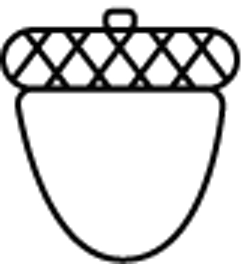
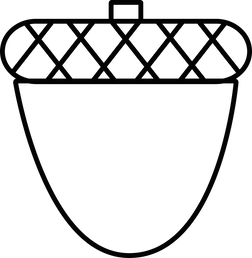
updated image and font for landing page

Changed region(s): [[0.0, 0.0, 1.0, 1.0]]

diff --git a/client/css/compass/screen.css b/client/css/compass/screen.css
@@ -1,4 +1,4 @@
-@import url(http://fonts.googleapis.com/css?family=Oswald:400,700,300);html,body,div,span,applet,object,iframe,h1,h2,h3,h4,h5,h6,p,blockquote,pre,a,abbr,acronym,address,big,cite,code,del,dfn,em,img,ins,kbd,q,s,samp,small,strike,strong,sub,sup,tt,var,b,u,i,center,dl,dt,dd,ol,ul,li,fieldset,form,label,legend,table,caption,tbody,tfoot,thead,tr,th,td,article,aside,canvas,details,embed,figure,figcaption,footer,header,hgroup,menu,nav,output,ruby,section,summary,time,mark,audio,video{margin:0;padding:0;border:0;font:inherit;font-size:100%;vertical-align:baseline}html{line-height:1}ol,ul{list-style:none}table{border-collapse:collapse;border-spacing:0}caption,th,td{text-align:left;font-weight:normal;vertical-align:middle}q,blockquote{quotes:none}q:before,q:after,blockquote:before,blockquote:after{content:"";content:none}a img{border:none}article,aside,details,figcaption,figure,footer,header,hgroup,main,menu,nav,section,summary{display:block}/*!
+@import url(http://fonts.googleapis.com/css?family=Montserrat+Alternates:700|Roboto:300,500|Oswald:400,700,300);html,body,div,span,applet,object,iframe,h1,h2,h3,h4,h5,h6,p,blockquote,pre,a,abbr,acronym,address,big,cite,code,del,dfn,em,img,ins,kbd,q,s,samp,small,strike,strong,sub,sup,tt,var,b,u,i,center,dl,dt,dd,ol,ul,li,fieldset,form,label,legend,table,caption,tbody,tfoot,thead,tr,th,td,article,aside,canvas,details,embed,figure,figcaption,footer,header,hgroup,menu,nav,output,ruby,section,summary,time,mark,audio,video{margin:0;padding:0;border:0;font:inherit;font-size:100%;vertical-align:baseline}html{line-height:1}ol,ul{list-style:none}table{border-collapse:collapse;border-spacing:0}caption,th,td{text-align:left;font-weight:normal;vertical-align:middle}q,blockquote{quotes:none}q:before,q:after,blockquote:before,blockquote:after{content:"";content:none}a img{border:none}article,aside,details,figcaption,figure,footer,header,hgroup,main,menu,nav,section,summary{display:block}/*!
  *  Font Awesome 4.0.3 by @davegandy - http://fontawesome.io - @fontawesome
  *  License - http://fontawesome.io/license (Font: SIL OFL 1.1, CSS: MIT License)
  */@font-face{font-family:'FontAwesome';src:url("/fonts/fontawesome-webfont.eot?v=4.0.3");src:url("/fonts/fontawesome-webfont.eot?#iefix&v=4.0.3") format("embedded-opentype"),url("/fonts/fontawesome-webfont.woff?v=4.0.3") format("woff"),url("/fonts/fontawesome-webfont.ttf?v=4.0.3") format("truetype"),url("/fonts/fontawesome-webfont.svg?v=4.0.3#fontawesomeregular") format("svg");font-weight:normal;font-style:normal}.fa{display:inline-block;font-family:FontAwesome;font-style:normal;font-weight:normal;line-height:1;-webkit-font-smoothing:antialiased;-moz-osx-font-smoothing:grayscale}.fa-lg{font-size:1.33333em;line-height:0.75em;vertical-align:-15%}.fa-2x{font-size:2em}.fa-3x{font-size:3em}.fa-4x{font-size:4em}.fa-5x{font-size:5em}.fa-fw{width:1.28571em;text-align:center}.fa-ul{padding-left:0;margin-left:2.14286em;list-style-type:none}.fa-ul>li{position:relative}.fa-li{position:absolute;left:-2.14286em;width:2.14286em;top:0.14286em;text-align:center}.fa-li.fa-lg{left:-1.85714em}.fa-border{padding:.2em .25em .15em;border:solid 0.08em #eee;border-radius:.1em}.pull-right{float:right}.pull-left{float:left}.fa.pull-left{margin-right:.3em}.fa.pull-right{margin-left:.3em}.fa-spin{-webkit-animation:spin 2s infinite linear;-moz-animation:spin 2s infinite linear;-o-animation:spin 2s infinite linear;animation:spin 2s infinite linear}@-moz-keyframes spin{0%{-moz-transform:rotate(0deg)}100%{-moz-transform:rotate(359deg)}}@-webkit-keyframes spin{0%{-webkit-transform:rotate(0deg)}100%{-webkit-transform:rotate(359deg)}}@-o-keyframes spin{0%{-o-transform:rotate(0deg)}100%{-o-transform:rotate(359deg)}}@-ms-keyframes spin{0%{-ms-transform:rotate(0deg)}100%{-ms-transform:rotate(359deg)}}@keyframes spin{0%{transform:rotate(0deg)}100%{transform:rotate(359deg)}}.fa-rotate-90{filter:progid:DXImageTransform.Microsoft.BasicImage(rotation=$rotation);-webkit-transform:rotate(90deg);-moz-transform:rotate(90deg);-ms-transform:rotate(90deg);-o-transform:rotate(90deg);transform:rotate(90deg)}.fa-rotate-180{filter:progid:DXImageTransform.Microsoft.BasicImage(rotation=$rotation);-webkit-transform:rotate(180deg);-moz-transform:rotate(180deg);-ms-transform:rotate(180deg);-o-transform:rotate(180deg);transform:rotate(180deg)}.fa-rotate-270{filter:progid:DXImageTransform.Microsoft.BasicImage(rotation=$rotation);-webkit-transform:rotate(270deg);-moz-transform:rotate(270deg);-ms-transform:rotate(270deg);-o-transform:rotate(270deg);transform:rotate(270deg)}.fa-flip-horizontal{filter:progid:DXImageTransform.Microsoft.BasicImage(rotation=$rotation);-webkit-transform:scale(-1, 1);-moz-transform:scale(-1, 1);-ms-transform:scale(-1, 1);-o-transform:scale(-1, 1);transform:scale(-1, 1)}.fa-flip-vertical{filter:progid:DXImageTransform.Microsoft.BasicImage(rotation=$rotation);-webkit-transform:scale(1, -1);-moz-transform:scale(1, -1);-ms-transform:scale(1, -1);-o-transform:scale(1, -1);transform:scale(1, -1)}.fa-stack{position:relative;display:inline-block;width:2em;height:2em;line-height:2em;vertical-align:middle}.fa-stack-1x,.fa-stack-2x{position:absolute;left:0;width:100%;text-align:center}.fa-stack-1x{line-height:inherit}.fa-stack-2x{font-size:2em}.fa-inverse{color:#fff}.fa-glass:before{content:"\f000"}.fa-music:before{content:"\f001"}.fa-search:before{content:"\f002"}.fa-envelope-o:before{content:"\f003"}.fa-heart:before{content:"\f004"}.fa-star:before{content:"\f005"}.fa-star-o:before{content:"\f006"}.fa-user:before{content:"\f007"}.fa-film:before{content:"\f008"}.fa-th-large:before{content:"\f009"}.fa-th:before{content:"\f00a"}.fa-th-list:before{content:"\f00b"}.fa-check:before{content:"\f00c"}.fa-times:before{content:"\f00d"}.fa-search-plus:before{content:"\f00e"}.fa-search-minus:before{content:"\f010"}.fa-power-off:before{content:"\f011"}.fa-signal:before{content:"\f012"}.fa-gear:before,.fa-cog:before{content:"\f013"}.fa-trash-o:before{content:"\f014"}.fa-home:before{content:"\f015"}.fa-file-o:before{content:"\f016"}.fa-clock-o:before{content:"\f017"}.fa-road:before{content:"\f018"}.fa-download:before{content:"\f019"}.fa-arrow-circle-o-down:before{content:"\f01a"}.fa-arrow-circle-o-up:before{content:"\f01b"}.fa-inbox:before{content:"\f01c"}.fa-play-circle-o:before{content:"\f01d"}.fa-rotate-right:before,.fa-repeat:before{content:"\f01e"}.fa-refresh:before{content:"\f021"}.fa-list-alt:before{content:"\f022"}.fa-lock:before{content:"\f023"}.fa-flag:before{content:"\f024"}.fa-headphones:before{content:"\f025"}.fa-volume-off:before{content:"\f026"}.fa-volume-down:before{content:"\f027"}.fa-volume-up:before{content:"\f028"}.fa-qrcode:before{content:"\f029"}.fa-barcode:before{content:"\f02a"}.fa-tag:before{content:"\f02b"}.fa-tags:before{content:"\f02c"}.fa-book:before{content:"\f02d"}.fa-bookmark:before{content:"\f02e"}.fa-print:before{content:"\f02f"}.fa-camera:before{content:"\f030"}.fa-font:before{content:"\f031"}.fa-bold:before{content:"\f032"}.fa-italic:before{content:"\f033"}.fa-text-height:before{content:"\f034"}.fa-text-width:before{content:"\f035"}.fa-align-left:before{content:"\f036"}.fa-align-center:before{content:"\f037"}.fa-align-right:before{content:"\f038"}.fa-align-justify:before{content:"\f039"}.fa-list:before{content:"\f03a"}.fa-dedent:before,.fa-outdent:before{content:"\f03b"}.fa-indent:before{content:"\f03c"}.fa-video-camera:before{content:"\f03d"}.fa-picture-o:before{content:"\f03e"}.fa-pencil:before{content:"\f040"}.fa-map-marker:before{content:"\f041"}.fa-adjust:before{content:"\f042"}.fa-tint:before{content:"\f043"}.fa-edit:before,.fa-pencil-square-o:before{content:"\f044"}.fa-share-square-o:before{content:"\f045"}.fa-check-square-o:before{content:"\f046"}.fa-arrows:before{content:"\f047"}.fa-step-backward:before{content:"\f048"}.fa-fast-backward:before{content:"\f049"}.fa-backward:before{content:"\f04a"}.fa-play:before{content:"\f04b"}.fa-pause:before{content:"\f04c"}.fa-stop:before{content:"\f04d"}.fa-forward:before{content:"\f04e"}.fa-fast-forward:before{content:"\f050"}.fa-step-forward:before{content:"\f051"}.fa-eject:before{content:"\f052"}.fa-chevron-left:before{content:"\f053"}.fa-chevron-right:before{content:"\f054"}.fa-plus-circle:before{content:"\f055"}.fa-minus-circle:before{content:"\f056"}.fa-times-circle:before{content:"\f057"}.fa-check-circle:before{content:"\f058"}.fa-question-circle:before{content:"\f059"}.fa-info-circle:before{content:"\f05a"}.fa-crosshairs:before{content:"\f05b"}.fa-times-circle-o:before{content:"\f05c"}.fa-check-circle-o:before{content:"\f05d"}.fa-ban:before{content:"\f05e"}.fa-arrow-left:before{content:"\f060"}.fa-arrow-right:before{content:"\f061"}.fa-arrow-up:before{content:"\f062"}.fa-arrow-down:before{content:"\f063"}.fa-mail-forward:before,.fa-share:before{content:"\f064"}.fa-expand:before{content:"\f065"}.fa-compress:before{content:"\f066"}.fa-plus:before{content:"\f067"}.fa-minus:before{content:"\f068"}.fa-asterisk:before{content:"\f069"}.fa-exclamation-circle:before{content:"\f06a"}.fa-gift:before{content:"\f06b"}.fa-leaf:before{content:"\f06c"}.fa-fire:before{content:"\f06d"}.fa-eye:before{content:"\f06e"}.fa-eye-slash:before{content:"\f070"}.fa-warning:before,.fa-exclamation-triangle:before{content:"\f071"}.fa-plane:before{content:"\f072"}.fa-calendar:before{content:"\f073"}.fa-random:before{content:"\f074"}.fa-comment:before{content:"\f075"}.fa-magnet:before{content:"\f076"}.fa-chevron-up:before{content:"\f077"}.fa-chevron-down:before{content:"\f078"}.fa-retweet:before{content:"\f079"}.fa-shopping-cart:before{content:"\f07a"}.fa-folder:before{content:"\f07b"}.fa-folder-open:before{content:"\f07c"}.fa-arrows-v:before{content:"\f07d"}.fa-arrows-h:before{content:"\f07e"}.fa-bar-chart-o:before{content:"\f080"}.fa-twitter-square:before{content:"\f081"}.fa-facebook-square:before{content:"\f082"}.fa-camera-retro:before{content:"\f083"}.fa-key:before{content:"\f084"}.fa-gears:before,.fa-cogs:before{content:"\f085"}.fa-comments:before{content:"\f086"}.fa-thumbs-o-up:before{content:"\f087"}.fa-thumbs-o-down:before{content:"\f088"}.fa-star-half:before{content:"\f089"}.fa-heart-o:before{content:"\f08a"}.fa-sign-out:before{content:"\f08b"}.fa-linkedin-square:before{content:"\f08c"}.fa-thumb-tack:before{content:"\f08d"}.fa-external-link:before{content:"\f08e"}.fa-sign-in:before{content:"\f090"}.fa-trophy:before{content:"\f091"}.fa-github-square:before{content:"\f092"}.fa-upload:before{content:"\f093"}.fa-lemon-o:before{content:"\f094"}.fa-phone:before{content:"\f095"}.fa-square-o:before{content:"\f096"}.fa-bookmark-o:before{content:"\f097"}.fa-phone-square:before{content:"\f098"}.fa-twitter:before{content:"\f099"}.fa-facebook:before{content:"\f09a"}.fa-github:before{content:"\f09b"}.fa-unlock:before{content:"\f09c"}.fa-credit-card:before{content:"\f09d"}.fa-rss:before{content:"\f09e"}.fa-hdd-o:before{content:"\f0a0"}.fa-bullhorn:before{content:"\f0a1"}.fa-bell:before{content:"\f0f3"}.fa-certificate:before{content:"\f0a3"}.fa-hand-o-right:before{content:"\f0a4"}.fa-hand-o-left:before{content:"\f0a5"}.fa-hand-o-up:before{content:"\f0a6"}.fa-hand-o-down:before{content:"\f0a7"}.fa-arrow-circle-left:before{content:"\f0a8"}.fa-arrow-circle-right:before{content:"\f0a9"}.fa-arrow-circle-up:before{content:"\f0aa"}.fa-arrow-circle-down:before{content:"\f0ab"}.fa-globe:before{content:"\f0ac"}.fa-wrench:before{content:"\f0ad"}.fa-tasks:before{content:"\f0ae"}.fa-filter:before{content:"\f0b0"}.fa-briefcase:before{content:"\f0b1"}.fa-arrows-alt:before{content:"\f0b2"}.fa-group:before,.fa-users:before{content:"\f0c0"}.fa-chain:before,.fa-link:before{content:"\f0c1"}.fa-cloud:before{content:"\f0c2"}.fa-flask:before{content:"\f0c3"}.fa-cut:before,.fa-scissors:before{content:"\f0c4"}.fa-copy:before,.fa-files-o:before{content:"\f0c5"}.fa-paperclip:before{content:"\f0c6"}.fa-save:before,.fa-floppy-o:before{content:"\f0c7"}.fa-square:before{content:"\f0c8"}.fa-bars:before{content:"\f0c9"}.fa-list-ul:before{content:"\f0ca"}.fa-list-ol:before{content:"\f0cb"}.fa-strikethrough:before{content:"\f0cc"}.fa-underline:before{content:"\f0cd"}.fa-table:before{content:"\f0ce"}.fa-magic:before{content:"\f0d0"}.fa-truck:before{content:"\f0d1"}.fa-pinterest:before{content:"\f0d2"}.fa-pinterest-square:before{content:"\f0d3"}.fa-google-plus-square:before{content:"\f0d4"}.fa-google-plus:before{content:"\f0d5"}.fa-money:before{content:"\f0d6"}.fa-caret-down:before{content:"\f0d7"}.fa-caret-up:before{content:"\f0d8"}.fa-caret-left:before{content:"\f0d9"}.fa-caret-right:before{content:"\f0da"}.fa-columns:before{content:"\f0db"}.fa-unsorted:before,.fa-sort:before{content:"\f0dc"}.fa-sort-down:before,.fa-sort-asc:before{content:"\f0dd"}.fa-sort-up:before,.fa-sort-desc:before{content:"\f0de"}.fa-envelope:before{content:"\f0e0"}.fa-linkedin:before{content:"\f0e1"}.fa-rotate-left:before,.fa-undo:before{content:"\f0e2"}.fa-legal:before,.fa-gavel:before{content:"\f0e3"}.fa-dashboard:before,.fa-tachometer:before{content:"\f0e4"}.fa-comment-o:before{content:"\f0e5"}.fa-comments-o:before{content:"\f0e6"}.fa-flash:before,.fa-bolt:before{content:"\f0e7"}.fa-sitemap:before{content:"\f0e8"}.fa-umbrella:before{content:"\f0e9"}.fa-paste:before,.fa-clipboard:before{content:"\f0ea"}.fa-lightbulb-o:before{content:"\f0eb"}.fa-exchange:before{content:"\f0ec"}.fa-cloud-download:before{content:"\f0ed"}.fa-cloud-upload:before{content:"\f0ee"}.fa-user-md:before{content:"\f0f0"}.fa-stethoscope:before{content:"\f0f1"}.fa-suitcase:before{content:"\f0f2"}.fa-bell-o:before{content:"\f0a2"}.fa-coffee:before{content:"\f0f4"}.fa-cutlery:before{content:"\f0f5"}.fa-file-text-o:before{content:"\f0f6"}.fa-building-o:before{content:"\f0f7"}.fa-hospital-o:before{content:"\f0f8"}.fa-ambulance:before{content:"\f0f9"}.fa-medkit:before{content:"\f0fa"}.fa-fighter-jet:before{content:"\f0fb"}.fa-beer:before{content:"\f0fc"}.fa-h-square:before{content:"\f0fd"}.fa-plus-square:before{content:"\f0fe"}.fa-angle-double-left:before{content:"\f100"}.fa-angle-double-right:before{content:"\f101"}.fa-angle-double-up:before{content:"\f102"}.fa-angle-double-down:before{content:"\f103"}.fa-angle-left:before{content:"\f104"}.fa-angle-right:before{content:"\f105"}.fa-angle-up:before{content:"\f106"}.fa-angle-down:before{content:"\f107"}.fa-desktop:before{content:"\f108"}.fa-laptop:before{content:"\f109"}.fa-tablet:before{content:"\f10a"}.fa-mobile-phone:before,.fa-mobile:before{content:"\f10b"}.fa-circle-o:before{content:"\f10c"}.fa-quote-left:before{content:"\f10d"}.fa-quote-right:before{content:"\f10e"}.fa-spinner:before{content:"\f110"}.fa-circle:before{content:"\f111"}.fa-mail-reply:before,.fa-reply:before{content:"\f112"}.fa-github-alt:before{content:"\f113"}.fa-folder-o:before{content:"\f114"}.fa-folder-open-o:before{content:"\f115"}.fa-smile-o:before{content:"\f118"}.fa-frown-o:before{content:"\f119"}.fa-meh-o:before{content:"\f11a"}.fa-gamepad:before{content:"\f11b"}.fa-keyboard-o:before{content:"\f11c"}.fa-flag-o:before{content:"\f11d"}.fa-flag-checkered:before{content:"\f11e"}.fa-terminal:before{content:"\f120"}.fa-code:before{content:"\f121"}.fa-reply-all:before{content:"\f122"}.fa-mail-reply-all:before{content:"\f122"}.fa-star-half-empty:before,.fa-star-half-full:before,.fa-star-half-o:before{content:"\f123"}.fa-location-arrow:before{content:"\f124"}.fa-crop:before{content:"\f125"}.fa-code-fork:before{content:"\f126"}.fa-unlink:before,.fa-chain-broken:before{content:"\f127"}.fa-question:before{content:"\f128"}.fa-info:before{content:"\f129"}.fa-exclamation:before{content:"\f12a"}.fa-superscript:before{content:"\f12b"}.fa-subscript:before{content:"\f12c"}.fa-eraser:before{content:"\f12d"}.fa-puzzle-piece:before{content:"\f12e"}.fa-microphone:before{content:"\f130"}.fa-microphone-slash:before{content:"\f131"}.fa-shield:before{content:"\f132"}.fa-calendar-o:before{content:"\f133"}.fa-fire-extinguisher:before{content:"\f134"}.fa-rocket:before{content:"\f135"}.fa-maxcdn:before{content:"\f136"}.fa-chevron-circle-left:before{content:"\f137"}.fa-chevron-circle-right:before{content:"\f138"}.fa-chevron-circle-up:before{content:"\f139"}.fa-chevron-circle-down:before{content:"\f13a"}.fa-html5:before{content:"\f13b"}.fa-css3:before{content:"\f13c"}.fa-anchor:before{content:"\f13d"}.fa-unlock-alt:before{content:"\f13e"}.fa-bullseye:before{content:"\f140"}.fa-ellipsis-h:before{content:"\f141"}.fa-ellipsis-v:before{content:"\f142"}.fa-rss-square:before{content:"\f143"}.fa-play-circle:before{content:"\f144"}.fa-ticket:before{content:"\f145"}.fa-minus-square:before{content:"\f146"}.fa-minus-square-o:before{content:"\f147"}.fa-level-up:before{content:"\f148"}.fa-level-down:before{content:"\f149"}.fa-check-square:before{content:"\f14a"}.fa-pencil-square:before{content:"\f14b"}.fa-external-link-square:before{content:"\f14c"}.fa-share-square:before{content:"\f14d"}.fa-compass:before{content:"\f14e"}.fa-toggle-down:before,.fa-caret-square-o-down:before{content:"\f150"}.fa-toggle-up:before,.fa-caret-square-o-up:before{content:"\f151"}.fa-toggle-right:before,.fa-caret-square-o-right:before{content:"\f152"}.fa-euro:before,.fa-eur:before{content:"\f153"}.fa-gbp:before{content:"\f154"}.fa-dollar:before,.fa-usd:before{content:"\f155"}.fa-rupee:before,.fa-inr:before{content:"\f156"}.fa-cny:before,.fa-rmb:before,.fa-yen:before,.fa-jpy:before{content:"\f157"}.fa-ruble:before,.fa-rouble:before,.fa-rub:before{content:"\f158"}.fa-won:before,.fa-krw:before{content:"\f159"}.fa-bitcoin:before,.fa-btc:before{content:"\f15a"}.fa-file:before{content:"\f15b"}.fa-file-text:before{content:"\f15c"}.fa-sort-alpha-asc:before{content:"\f15d"}.fa-sort-alpha-desc:before{content:"\f15e"}.fa-sort-amount-asc:before{content:"\f160"}.fa-sort-amount-desc:before{content:"\f161"}.fa-sort-numeric-asc:before{content:"\f162"}.fa-sort-numeric-desc:before{content:"\f163"}.fa-thumbs-up:before{content:"\f164"}.fa-thumbs-down:before{content:"\f165"}.fa-youtube-square:before{content:"\f166"}.fa-youtube:before{content:"\f167"}.fa-xing:before{content:"\f168"}.fa-xing-square:before{content:"\f169"}.fa-youtube-play:before{content:"\f16a"}.fa-dropbox:before{content:"\f16b"}.fa-stack-overflow:before{content:"\f16c"}.fa-instagram:before{content:"\f16d"}.fa-flickr:before{content:"\f16e"}.fa-adn:before{content:"\f170"}.fa-bitbucket:before{content:"\f171"}.fa-bitbucket-square:before{content:"\f172"}.fa-tumblr:before{content:"\f173"}.fa-tumblr-square:before{content:"\f174"}.fa-long-arrow-down:before{content:"\f175"}.fa-long-arrow-up:before{content:"\f176"}.fa-long-arrow-left:before{content:"\f177"}.fa-long-arrow-right:before{content:"\f178"}.fa-apple:before{content:"\f179"}.fa-windows:before{content:"\f17a"}.fa-android:before{content:"\f17b"}.fa-linux:before{content:"\f17c"}.fa-dribbble:before{content:"\f17d"}.fa-skype:before{content:"\f17e"}.fa-foursquare:before{content:"\f180"}.fa-trello:before{content:"\f181"}.fa-female:before{content:"\f182"}.fa-male:before{content:"\f183"}.fa-gittip:before{content:"\f184"}.fa-sun-o:before{content:"\f185"}.fa-moon-o:before{content:"\f186"}.fa-archive:before{content:"\f187"}.fa-bug:before{content:"\f188"}.fa-vk:before{content:"\f189"}.fa-weibo:before{content:"\f18a"}.fa-renren:before{content:"\f18b"}.fa-pagelines:before{content:"\f18c"}.fa-stack-exchange:before{content:"\f18d"}.fa-arrow-circle-o-right:before{content:"\f18e"}.fa-arrow-circle-o-left:before{content:"\f190"}.fa-toggle-left:before,.fa-caret-square-o-left:before{content:"\f191"}.fa-dot-circle-o:before{content:"\f192"}.fa-wheelchair:before{content:"\f193"}.fa-vimeo-square:before{content:"\f194"}.fa-turkish-lira:before,.fa-try:before{content:"\f195"}.fa-plus-square-o:before{content:"\f196"}/*! normalize.css v1.1.0 | MIT License | git.io/normalize */article,aside,details,figcaption,figure,footer,header,hgroup,main,nav,section,summary{display:block}audio,canvas,video{display:inline-block;*display:inline;*zoom:1}audio:not([controls]){display:none;height:0}[hidden]{display:none}html{font-size:100%;-webkit-text-size-adjust:100%;-ms-text-size-adjust:100%}html,button,input,select,textarea{font-family:sans-serif}body{margin:0}a:focus{outline:thin dotted}a:active,a:hover{outline:0}h1{font-size:2em;margin:0.67em 0}h2{font-size:1.5em;margin:0.83em 0}h3{font-size:1.17em;margin:1em 0}h4{font-size:1em;margin:1.33em 0}h5{font-size:0.83em;margin:1.67em 0}h6{font-size:0.67em;margin:2.33em 0}abbr[title]{border-bottom:1px dotted}b,strong{font-weight:bold}blockquote{margin:1em 40px}dfn{font-style:italic}hr{-moz-box-sizing:content-box;box-sizing:content-box;height:0}mark{background:#ff0;color:#000}p,pre{margin:1em 0}code,kbd,pre,samp{font-family:monospace, serif;_font-family:'courier new', monospace;font-size:1em}pre{white-space:pre;white-space:pre-wrap;word-wrap:break-word}q{quotes:none}q:before,q:after{content:'';content:none}small{font-size:80%}sub,sup{font-size:75%;line-height:0;position:relative;vertical-align:baseline}sup{top:-0.5em}sub{bottom:-0.25em}dl,menu,ol,ul{margin:1em 0}dd{margin:0 0 0 40px}menu,ol,ul{padding:0 0 0 40px}nav ul,nav ol{list-style:none;list-style-image:none}img{border:0;-ms-interpolation-mode:bicubic}svg:not(:root){overflow:hidden}figure{margin:0}form{margin:0}fieldset{border:1px solid #c0c0c0;margin:0 2px;padding:0.35em 0.625em 0.75em}legend{border:0;padding:0;white-space:normal;*margin-left:-7px}button,input,select,textarea{font-size:100%;margin:0;vertical-align:baseline;*vertical-align:middle}button,input{line-height:normal}button,select{text-transform:none}button,html input[type="button"],input[type="reset"],input[type="submit"]{-webkit-appearance:button;cursor:pointer;*overflow:visible}button[disabled],html input[disabled]{cursor:default}input[type="checkbox"],input[type="radio"]{box-sizing:border-box;padding:0;*height:13px;*width:13px}input[type="search"]{-webkit-appearance:textfield;-moz-box-sizing:content-box;-webkit-box-sizing:content-box;box-sizing:content-box}input[type="search"]::-webkit-search-cancel-button,input[type="search"]::-webkit-search-decoration{-webkit-appearance:none}button::-moz-focus-inner,input::-moz-focus-inner{border:0;padding:0}textarea{overflow:auto;vertical-align:top}table{border-collapse:collapse;border-spacing:0}.entry{margin:0 auto;width:16rem}.entry div.alert{text-align:center;margin-bottom:1rem}.entry input{width:100%;max-width:none}.entry h3{margin-bottom:1.2rem}.entry .form-group{margin-bottom:1rem}.entry .entry-form{margin-top:0}.entry .entry-form button.submit{margin-top:0}.entry .entry-signin-cta{margin-bottom:1rem}*{box-sizing:border-box}html,input,textarea{color:black}html,body{height:100%}body{font:16px/26px 'Oswald', sans-serif;font-weight:300}h3{color:#666;margin:1em 0 0.2em;font-weight:bold}.wrapper{width:96%;margin:0 2%}@media (min-width: 768px){.wrapper{width:90%;margin:0 5%}}@media (min-width: 1140px){.wrapper{width:960px;margin:0 auto}}
@@ -6,5 +6,5 @@
 ::-moz-selection{background:#b3d4fc;text-shadow:none}::selection{background:#b3d4fc;text-shadow:none}hr{display:block;height:1px;border:0;border-top:1px solid #ccc;margin:1em 0;padding:0}img{vertical-align:middle}fieldset{border:0;margin:0;padding:0}textarea{resize:vertical}.chromeframe{margin:0.2em 0;background:#ccc;color:#000;padding:0.2em 0}ul{padding:0}ul li{list-style:none}.errors{margin-bottom:1rem}.gain{color:#00b42b}.loss{color:#bd4652}.ir{background-color:transparent;border:0;overflow:hidden;*text-indent:-9999px}.ir:before{content:"";display:block;width:0;height:150%}.hidden{display:none !important;visibility:hidden}.visuallyhidden{border:0;clip:rect(0 0 0 0);height:1px;margin:-1px;overflow:hidden;padding:0;position:absolute;width:1px}.visuallyhidden.focusable:active,.visuallyhidden.focusable:focus{clip:auto;height:auto;margin:0;overflow:visible;position:static;width:auto}.invisible{visibility:hidden}input,select,button{-moz-border-radius:4px;-webkit-border-radius:4px;border-radius:4px;border:1px solid #ccc;padding:6px;max-width:10rem;color:#666}input[type="search"]{-moz-appearance:none;-webkit-appearance:none}input[type="file"]{max-width:none}input[type=checkbox]{display:none}input[type=checkbox]+label:hover{cursor:pointer}input[type=checkbox]+label:after{font-family:FontAwesome;display:inline-block}input[type=checkbox]+label:after{content:"\f096";padding:0 2px 0 5px}input[type=checkbox]:checked+label:after{content:"\f046";padding-right:0}input[type='radio']{display:none}input[type='radio']+label{display:inline-block;cursor:pointer}input[type='radio']+label:after{font-family:FontAwesome;font-style:normal;font-weight:normal;line-height:1;-webkit-font-smoothing:antialiased;-moz-osx-font-smoothing:grayscale;content:"\f096";margin-left:3px}input[type='radio']:checked+label:after{content:"\f0c8"}select,button,input[type="submit"]{-moz-appearance:none;-webkit-appearance:none;background-color:#f8f8f8;margin:0;color:#999;border:1px solid #ccc;display:inline-block;cursor:pointer}select:hover,button:hover,input[type="submit"]:hover{background-color:#DDD;color:#999}select:active,button:active,input[type="submit"]:active{background-color:#ccc;color:#666}select{background:url(/img/arrow-down.png) no-repeat 90% 50% #f8f8f8}@media screen and (-webkit-min-device-pixel-ratio: 0){select{padding-right:22px}}th,td{padding:0.2rem 0.5rem;box-sizing:content-box;text-align:right;border-bottom:1px solid #ccc}th:first-child,td:first-child{text-align:left;padding-right:0.5rem}th{padding-bottom:1rem;padding-right:1.25rem;white-space:nowrap;font-weight:400;color:#666;min-width:50px}td{font-family:Helvetica, Helvetica Neue, Arial, sans-serif;font-weight:300}tfoot td{font-weight:700;color:black}.datatable-header{margin-bottom:1rem;padding:0 0.5rem;color:#999}.datatable-header:before,.datatable-header:after{content:" ";display:table}.datatable-header:after{clear:both}.datatable-header{*zoom:1}.datatable-header input[type="search"]{width:8rem}.datatable-header>div{display:inline-block;margin-left:1rem;float:right}table.dataTable thead .sorting_asc,table.dataTable thead .sorting_desc,table.dataTable thead .sorting{cursor:pointer;*cursor:hand;background:no-repeat 100% 30%}table.dataTable thead .sorting{background-image:url("/img/sort_both.png")}table.dataTable thead .sorting_asc{background-image:url("/img/sort_asc.png")}table.dataTable thead .sorting_desc{background-image:url("/img/sort_desc.png")}table.dataTable thead .sorting_asc_disabled{background-image:url("/img/sort_asc_disabled.png")}table.dataTable thead .sorting_desc_disabled{background-image:url("/img/sort_desc_disabled.png")}.dataTables_wrapper .dataTables_processing{position:absolute;top:50%;left:50%;width:100%;height:4rem;margin-left:-50%;margin-top:-25px;padding-top:20px;text-align:center;font-size:1.2em;background-color:white;background:-webkit-gradient(linear, left top, right top, color-stop(0%, rgba(255,255,255,0)), color-stop(25%, rgba(255,255,255,0.9)), color-stop(75%, rgba(255,255,255,0.9)), color-stop(100%, rgba(255,255,255,0)));background:-webkit-linear-gradient(left, rgba(255,255,255,0) 0%, rgba(255,255,255,0.9) 25%, rgba(255,255,255,0.9) 75%, rgba(255,255,255,0) 100%);background:-moz-linear-gradient(left, rgba(255,255,255,0) 0%, rgba(255,255,255,0.9) 25%, rgba(255,255,255,0.9) 75%, rgba(255,255,255,0) 100%);background:-ms-linear-gradient(left, rgba(255,255,255,0) 0%, rgba(255,255,255,0.9) 25%, rgba(255,255,255,0.9) 75%, rgba(255,255,255,0) 100%);background:-o-linear-gradient(left, rgba(255,255,255,0) 0%, rgba(255,255,255,0.9) 25%, rgba(255,255,255,0.9) 75%, rgba(255,255,255,0) 100%);background:linear-gradient(to right, rgba(255,255,255,0) 0%,rgba(255,255,255,0.9) 25%,rgba(255,255,255,0.9) 75%,rgba(255,255,255,0) 100%)}.dataTables_wrapper{position:relative}.dataTables_wrapper th:hover,.dataTables_wrapper a:hover:not(.current):not(.disabled){cursor:pointer;color:#999}.datatable-scroll{margin-bottom:0.5rem}.dataTables_info{float:left}.dataTables_paginate{float:right}.dataTables_paginate a{padding:0 2px}.dataTables_paginate a:not(.current):not(.disabled){font-weight:400}.empty-table{width:74.57627%;float:left;margin-right:1.69492%;margin-top:3.2rem}.header-container{background:#333;font-family:'Oswald', sans-serif;font-size:1.2rem;margin-bottom:2rem}.header-container:before,.header-container:after{content:" ";display:table}.header-container:after{clear:both}.header-container{*zoom:1}#site-header{color:#666}@media (min-width: 768px){#site-header>*{padding-top:70px}}#site-header h1{font-size:2rem;line-height:1em;font-weight:bold;float:left;margin:1rem 1rem 1rem 0}#site-header h1 a{color:white}#site-header a{text-decoration:none}#site-header nav a,#site-header #mobile-menu{display:block;text-align:center;text-decoration:none;font-weight:bold;color:#666}#site-header nav a:visited,#site-header #mobile-menu:visited{color:#666}#site-header nav a:hover,#site-header #mobile-menu:hover{color:#999}#site-header nav a.active,#site-header #mobile-menu.active{color:#ccc}#site-header #mobile-menu{display:inline-block;float:right;margin:0;font-size:1.8rem;padding:1rem}#site-header #mobile-menu:before{font-family:FontAwesome;font-style:normal;font-weight:normal;line-height:1;-webkit-font-smoothing:antialiased;-moz-osx-font-smoothing:grayscale;content:"\f0c9"}@media (min-width: 768px){#site-header #mobile-menu{display:none}}.menu-open #site-header #mobile-menu{color:#ccc}#site-header nav{overflow-y:hidden;max-height:500px;transition-property:all;transition-duration:1s;transition-timing-function:cubic-bezier(0, 1, 0.5, 1);clear:both}#site-header nav:before,#site-header nav:after{content:" ";display:table}#site-header nav:after{clear:both}#site-header nav{*zoom:1}#site-header nav.closed{max-height:0}@media (min-width: 768px){#site-header nav{display:block;float:right;clear:none;overflow-y:visible}}.menu-closed #site-header nav{max-height:0}@media (min-width: 768px){.menu-closed #site-header nav{max-height:500px}}#site-header nav ul{margin:0}#site-header nav ul li{border-bottom:solid 1px}@media (min-width: 768px){#site-header nav ul li{border-bottom:none;display:inline-block}}#site-header nav a{padding:1.25rem 1rem}#site-header nav li:last-child a{padding-right:2rem}@media (min-width: 768px){#site-header nav a.active{position:relative;background:#333;border:0.1em solid #333}#site-header nav a.active:after,#site-header nav a.active:before{top:100%;border:solid transparent;content:" ";height:0;width:0;position:absolute;pointer-events:none}#site-header nav a.active:after{border-top-color:#333;border-width:0.5em;left:50%;margin-left:-0.5em}#site-header nav a.active:before{border-top-color:#333;border-width:0.64142em;left:50%;margin-left:-0.64142em}}
 #iron-router-progress{background-color:#00b42b;box-shadow:0 0 5px #00b42b}#stock-search{margin:1rem 0;float:right}@media (min-width: 768px){#stock-search{padding-top:67px}}#stock-search input[type="search"]{border:none}#stock-search .twitter-typeahead{vertical-align:middle}#stock-search .typeahead{width:8rem}@media (min-width: 768px){#stock-search .typeahead{padding-top:10px;padding-bottom:10px}}
 .typeahead{width:10rem;font-size:1rem;padding:6px 12px}.tt-query{-webkit-box-shadow:inset 0 1px 1px rgba(0,0,0,0.075);-moz-box-shadow:inset 0 1px 1px rgba(0,0,0,0.075);box-shadow:inset 0 1px 1px rgba(0,0,0,0.075)}.tt-hint{color:#999}.tt-dropdown-menu{-moz-border-radius:4px;-webkit-border-radius:4px;border-radius:4px;-moz-box-shadow:0 5px 10px rgba(0,0,0,0.2);-webkit-box-shadow:0 5px 10px rgba(0,0,0,0.2);box-shadow:0 5px 10px rgba(0,0,0,0.2);margin-top:3px;padding:4px 0;background-color:#fff;border:1px solid #ccc;border:1px solid rgba(0,0,0,0.2)}.tt-suggestion{padding:3px 20px;font-size:18px;line-height:24px}.tt-suggestion.tt-cursor{color:#fff;background-color:#0097cf}.tt-suggestion p{margin:0}#cgt-form{margin-bottom:1rem}#cgt-form .field{display:block;margin-bottom:0.5rem}@media (min-width: 768px){#cgt-form .field{display:inline-block;margin-right:1rem;margin-bottom:0}}#cgt-form [type="submit"]{padding:6px;margin-left:3rem}@media (min-width: 768px){#cgt-form [type="submit"]{margin-left:0}}
-#capital-gains #total-summary{font-size:1.2rem;padding-bottom:1rem;margin-bottom:1rem;border-bottom:1px solid #ccc;max-width:42rem}#dashboard ul:before,#dashboard ul:after{content:" ";display:table}#dashboard ul:after{clear:both}#dashboard ul{*zoom:1}#dashboard #summary{max-width:40rem}#dashboard #summary li{width:31.03448%;float:left;margin-right:3.44828%}#dashboard #summary li:last-child{width:31.03448%;float:right;margin-right:0}#dashboard #summary .label,#dashboard #summary .value{display:block}#dashboard #summary .label{color:#666;font-weight:bold}#dashboard #summary .value{font-size:1.2em}#dashboard #winners,#dashboard #losers{float:left;width:8rem}#dashboard #winners ul,#dashboard #losers ul{margin-top:0.5rem}#dashboard #winners .label,#dashboard #losers .label{float:left}#dashboard #winners .value,#dashboard #losers .value{float:right}#dashboard #winners{margin-right:5rem}#landing-wrapper{background-color:#3eb192;min-height:100%}#landing-wrapper nav:before,#landing-wrapper nav:after{content:" ";display:table}#landing-wrapper nav:after{clear:both}#landing-wrapper nav{*zoom:1}#landing-wrapper nav a{text-decoration:none;text-transform:uppercase;line-height:1em;display:inline-block}#landing-wrapper #landing-header{padding:2rem 0}@media (min-width: 768px){#landing-wrapper #landing-header{padding:4rem 0}}#landing-wrapper #landing-header a{float:right;font-size:1.8rem;color:black}#landing-wrapper #landing-header a:visited{color:black}#landing-wrapper #landing-header a:hover{color:white}#landing-wrapper .main-container{padding-bottom:8rem}#landing-wrapper .main-container:before,#landing-wrapper .main-container:after{content:" ";display:table}#landing-wrapper .main-container:after{clear:both}#landing-wrapper .main-container{*zoom:1}#landing-wrapper #landing{margin:0 auto;width:20rem}#landing-wrapper #landing:before,#landing-wrapper #landing:after{content:" ";display:table}#landing-wrapper #landing:after{clear:both}#landing-wrapper #landing{*zoom:1}@media (min-width: 768px){#landing-wrapper #landing{width:40rem}}#landing-wrapper #landing>*{margin:0 auto;display:block}#landing-wrapper #logo{width:125px;height:132px}@media (min-width: 768px){#landing-wrapper #logo{width:48.27586%;float:left;margin-right:3.44828%;width:252px;height:264px;margin-top:3rem}}#landing-wrapper #main{text-align:center}@media (min-width: 768px){#landing-wrapper #main{width:48.27586%;float:right;margin-right:0;text-align:left}}#landing-wrapper #main h1{font-size:5rem}#landing-wrapper #main p{color:white;font-size:1.6rem;line-height:1.2em}#landing-wrapper #main a{color:white;font-weight:bold}#landing-wrapper #main a:visited{color:white}#landing-wrapper #main a:hover{color:black}#landing-wrapper footer{clear:both;background-color:white;color:#666;padding-top:4rem;height:8rem;width:100%;position:absolute;bottom:0;left:0}#landing-wrapper footer nav{text-align:center}#landing-wrapper footer a{color:#666}#landing-wrapper footer a:visited{color:#666}#landing-wrapper footer a:hover{color:black}#portfolio .dataTables_wrapper:before,#portfolio .dataTables_wrapper:after{content:" ";display:table}#portfolio .dataTables_wrapper:after{clear:both}#portfolio .dataTables_wrapper{*zoom:1}@media (min-width: 1140px){#portfolio .dataTables_wrapper{width:83.05085%;float:left;margin-right:1.69492%}}#portfolio .dataTables_length{display:none}@media (min-width: 768px){#portfolio .dataTables_length{display:inline-block}}#portfolio #display-options{padding:0;margin:0;float:left}#portfolio #display-options li{display:inline-block;padding-right:1rem}#portfolio #portfolio-total{color:black}#stock-detail ul{padding-left:0}#stock-detail #ticker{margin:0.2em 0}#stock-detail #price{font-size:1.5em}#stock-detail #price #price-change{font-size:0.8em;margin-left:0.5em}#stock-detail #price #price-change.gain{color:green}#stock-detail #price #price-change.loss{color:red}#stock-detail #fundamentals>div{float:left}#stock-detail #fundamentals li{width:18em}#stock-detail #fundamentals .value{float:right}#stock-detail #other-fundamentals ul{padding:0}#transactions .dataTables_wrapper{max-width:44rem}#transactions .dataTables_wrapper:before,#transactions .dataTables_wrapper:after{content:" ";display:table}#transactions .dataTables_wrapper:after{clear:both}#transactions .dataTables_wrapper{*zoom:1}@media (min-width: 1140px){#transactions .dataTables_wrapper{width:74.57627%;float:left;margin-right:1.69492%}}
+#capital-gains #total-summary{font-size:1.2rem;padding-bottom:1rem;margin-bottom:1rem;border-bottom:1px solid #ccc;max-width:42rem}#dashboard ul:before,#dashboard ul:after{content:" ";display:table}#dashboard ul:after{clear:both}#dashboard ul{*zoom:1}#dashboard #summary{max-width:40rem}#dashboard #summary li{width:31.03448%;float:left;margin-right:3.44828%}#dashboard #summary li:last-child{width:31.03448%;float:right;margin-right:0}#dashboard #summary .label,#dashboard #summary .value{display:block}#dashboard #summary .label{color:#666;font-weight:bold}#dashboard #summary .value{font-size:1.2em}#dashboard #winners,#dashboard #losers{float:left;width:8rem}#dashboard #winners ul,#dashboard #losers ul{margin-top:0.5rem}#dashboard #winners .label,#dashboard #losers .label{float:left}#dashboard #winners .value,#dashboard #losers .value{float:right}#dashboard #winners{margin-right:5rem}#landing-wrapper{background-color:#3eb192;min-height:100%;font:300 16px/26px 'Roboto', sans-serif}#landing-wrapper nav:before,#landing-wrapper nav:after{content:" ";display:table}#landing-wrapper nav:after{clear:both}#landing-wrapper nav{*zoom:1}#landing-wrapper nav a{text-decoration:none;text-transform:uppercase;line-height:1em;display:inline-block}#landing-wrapper #landing-header{padding:2rem 0}@media (min-width: 768px){#landing-wrapper #landing-header{padding:4rem 0}}#landing-wrapper #landing-header a{float:right;font-size:1.8rem;color:black}#landing-wrapper #landing-header a:visited{color:black}#landing-wrapper #landing-header a:hover{color:white}#landing-wrapper .main-container{padding-bottom:8rem}#landing-wrapper .main-container:before,#landing-wrapper .main-container:after{content:" ";display:table}#landing-wrapper .main-container:after{clear:both}#landing-wrapper .main-container{*zoom:1}#landing-wrapper #landing{margin:0 auto;width:20rem}#landing-wrapper #landing:before,#landing-wrapper #landing:after{content:" ";display:table}#landing-wrapper #landing:after{clear:both}#landing-wrapper #landing{*zoom:1}@media (min-width: 768px){#landing-wrapper #landing{width:40rem}}#landing-wrapper #landing>*{margin:0 auto;display:block}#landing-wrapper #logo{width:125px;height:132px}@media (min-width: 768px){#landing-wrapper #logo{width:48.27586%;float:left;margin-right:3.44828%;width:252px;height:264px;margin-top:3rem}}#landing-wrapper #main{text-align:center}@media (min-width: 768px){#landing-wrapper #main{width:48.27586%;float:right;margin-right:0;text-align:left}}#landing-wrapper #main h1{font:bold 6.5rem 'Montserrat Alternates', sans-serif;margin:0}#landing-wrapper #main p{color:white;font-size:2rem;line-height:1.2em;margin-top:1rem}#landing-wrapper #main a{color:white;text-decoration:none;border-bottom:2px solid;font-weight:500}#landing-wrapper #main a:visited{color:white}#landing-wrapper #main a:hover{color:black}#landing-wrapper footer{clear:both;background-color:white;color:#666;padding-top:4rem;height:8rem;width:100%;position:absolute;bottom:0;left:0}#landing-wrapper footer nav{text-align:center}#landing-wrapper footer a{color:#666}#landing-wrapper footer a:visited{color:#666}#landing-wrapper footer a:hover{color:black}#portfolio .dataTables_wrapper:before,#portfolio .dataTables_wrapper:after{content:" ";display:table}#portfolio .dataTables_wrapper:after{clear:both}#portfolio .dataTables_wrapper{*zoom:1}@media (min-width: 1140px){#portfolio .dataTables_wrapper{width:83.05085%;float:left;margin-right:1.69492%}}#portfolio .dataTables_length{display:none}@media (min-width: 768px){#portfolio .dataTables_length{display:inline-block}}#portfolio #display-options{padding:0;margin:0;float:left}#portfolio #display-options li{display:inline-block;padding-right:1rem}#portfolio #portfolio-total{color:black}#stock-detail ul{padding-left:0}#stock-detail #ticker{margin:0.2em 0}#stock-detail #price{font-size:1.5em}#stock-detail #price #price-change{font-size:0.8em;margin-left:0.5em}#stock-detail #price #price-change.gain{color:green}#stock-detail #price #price-change.loss{color:red}#stock-detail #fundamentals>div{float:left}#stock-detail #fundamentals li{width:18em}#stock-detail #fundamentals .value{float:right}#stock-detail #other-fundamentals ul{padding:0}#transactions .dataTables_wrapper{max-width:44rem}#transactions .dataTables_wrapper:before,#transactions .dataTables_wrapper:after{content:" ";display:table}#transactions .dataTables_wrapper:after{clear:both}#transactions .dataTables_wrapper{*zoom:1}@media (min-width: 1140px){#transactions .dataTables_wrapper{width:74.57627%;float:left;margin-right:1.69492%}}
 #import-preview td{text-align:center}#transaction-menu{clear:both;margin-top:2rem}#transaction-menu:before,#transaction-menu:after{content:" ";display:table}#transaction-menu:after{clear:both}#transaction-menu{*zoom:1}@media (min-width: 1140px){#transaction-menu{width:15.25424%;float:right;margin-right:0;clear:none;margin-top:3.2rem}#transaction-menu input{width:97%}#transaction-menu input[type="date"]{font-size:14px}}#transaction-menu h3{font-size:1rem;margin-top:0;font-weight:bold;color:#999}#transaction-menu input,#transaction-menu select,#transaction-menu button{display:block;margin-bottom:0.5rem}#transaction-menu .menu{overflow-y:hidden;max-height:500px;transition-property:all;transition-duration:1s;transition-timing-function:cubic-bezier(0, 1, 0.5, 1)}#transaction-menu .menu.closed{max-height:0}#transaction-menu .twitter-typeahead{margin-bottom:0.5rem}#transaction-menu .twitter-typeahead input.typeahead{margin-bottom:0}#transaction-menu #add-transaction,#transaction-menu #other-tools{float:left;min-width:10rem}@media (min-width: 1140px){#transaction-menu #add-transaction,#transaction-menu #other-tools{float:none;min-width:none}}#transaction-menu #add-transaction{margin-bottom:1rem;margin-right:2rem}@media (min-width: 1140px){#transaction-menu #add-transaction{margin-right:0}}#transaction-menu #other-tools h3{margin-bottom:0.5rem}#transaction-menu #other-tools ul{padding-left:0;margin-top:0.5rem}

diff --git a/client/scss/partials/_landing.scss b/client/scss/partials/_landing.scss
@@ -1,6 +1,7 @@
 #landing-wrapper {
   background-color: $cyan;
   min-height: 100%;
+  font: 300 16px/26px 'Roboto', sans-serif;
   nav {
     @include clearfix();
     a {
@@ -60,16 +61,20 @@
       text-align: left;
     }
     h1 {
-      font-size: 5rem;
+      font: bold 6.5rem 'Montserrat Alternates', sans-serif;
+      margin: 0;
     }
     p {
       color: white;
-      font-size: 1.6rem;
+      font-size: 2rem;
       line-height: 1.2em;
+      margin-top: 1rem;
     }
     a {
       color: white;
-      font-weight: bold;
+      text-decoration: none;
+      border-bottom: 2px solid;
+      font-weight: 500;
       &:visited {
         color: white;
       }

diff --git a/client/scss/dependencies/_fonts.scss b/client/scss/dependencies/_fonts.scss
@@ -1,4 +1,4 @@
-@import url(http://fonts.googleapis.com/css?family=Oswald:400,700,300);
+@import url(http://fonts.googleapis.com/css?family=Montserrat+Alternates:700|Roboto:300,500|Oswald:400,700,300);
 
 /* OFFLINE */
 // @font-face {
